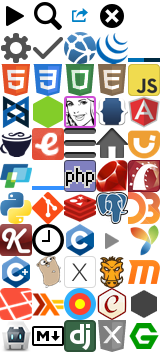
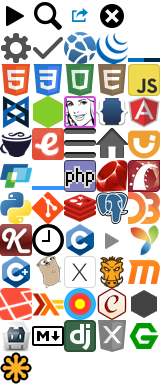
Add SVG documentation

diff --git a/assets/stylesheets/global/_icons.scss b/assets/stylesheets/global/_icons.scss
@@ -4,7 +4,7 @@
   width: 1rem;
   height: 1rem;
   background-image: image-url('icons.png');
-  background-size: 5rem 11rem;
+  background-size: 5rem 12rem;
 }
 
 @media (-webkit-min-device-pixel-ratio: 1.5), (min-resolution: 144dpi) {
@@ -66,3 +66,4 @@
 ._icon-django:before        { background-position: -2rem -10rem; }
 ._icon-xpath:before         { background-position: -3rem -10rem; }
 ._icon-nginx:before         { background-position: -4rem -10rem; }
+._icon-svg:before           { background-position: 0 -11rem; }

diff --git a/lib/docs/filters/svg/entries.rb b/lib/docs/filters/svg/entries.rb
@@ -1,0 +1,47 @@
+module Docs
+  class Svg
+    class EntriesFilter < Docs::EntriesFilter
+      def get_name
+        name = super
+        name.remove!('Element.').try(:downcase!)
+        name.remove!('Attribute.').try(:downcase!)
+        name.remove!('Tutorial.')
+        name.gsub!('_', '')
+
+        if name.in?(%w(Element Attribute Content\ type))
+          "#{name}s"
+        else
+          name
+        end
+      end
+
+      def get_type
+        if slug.start_with?('Element')
+          'Elements'
+        elsif slug.start_with?('Attribute')
+          'Attributes'
+        elsif slug.start_with?('Tutorial')
+          'Tutorial'
+        elsif slug == 'Content_type'
+          'Content types'
+        else
+          'Miscellaneous'
+        end
+      end
+
+      def additional_entries
+        return [] unless slug == 'Content_type'
+        entries = []
+
+        css('h2[id]').each do |node|
+          dl = node.next_element
+          next unless dl.name == 'dl'
+          name = dl.at_css('dt').content.remove(/[<>]/)
+          entries << [name, node['id']]
+        end
+
+        entries
+      end
+    end
+  end
+end

diff --git a/lib/docs/scrapers/mdn/svg.rb b/lib/docs/scrapers/mdn/svg.rb
@@ -1,0 +1,33 @@
+module Docs
+  class Svg < Mdn
+    self.name = 'SVG'
+    self.base_url = 'https://developer.mozilla.org/en-US/docs/Web/SVG'
+
+    html_filters.push 'svg/clean_html', 'svg/entries', 'title'
+
+    options[:root_title] = 'SVG'
+
+    options[:title] = ->(filter) do
+      if filter.slug.starts_with?('Element/')
+        "<#{filter.default_title}>"
+      elsif filter.slug != 'Attribute' && filter.slug != 'Element'
+        filter.default_title
+      else
+        false
+      end
+    end
+
+    options[:skip] = %w(
+      /Compatibility_sources
+      /FAQ
+      /SVG_animation_with_SMIL
+      /SVG_as_an_Image)
+
+    options[:fix_urls] = ->(url) do
+      url.sub! 'https://developer.mozilla.org/en-US/Web/SVG', Svg.base_url
+      url.sub! 'https://developer.mozilla.org/en-US/docs/SVG', Svg.base_url
+      url.sub! 'https://developer.mozilla.org/en/SVG', Svg.base_url
+      url
+    end
+  end
+end

diff --git a/lib/docs/filters/svg/clean_html.rb b/lib/docs/filters/svg/clean_html.rb
@@ -1,0 +1,32 @@
+module Docs
+  class Svg
+    class CleanHtmlFilter < Filter
+      def call
+        root_page? ? root : other
+        doc
+      end
+
+      def root
+        doc.inner_html = doc.at_css('#Documentation + dl').to_html
+      end
+
+      def other
+        css('.prevnext').remove
+
+        if at_css('p').content.include?("\u{00AB}")
+          at_css('p').remove
+        end
+
+        if slug == 'Attribute' || slug == 'Element'
+          at_css('h2').name = 'h1'
+        end
+
+        css('#SVG_Attributes + div[style]').each do |node|
+          node.remove_attribute('style')
+          node['class'] = 'index'
+          css('h3').each { |n| n.name = 'span' }
+        end
+      end
+    end
+  end
+end
